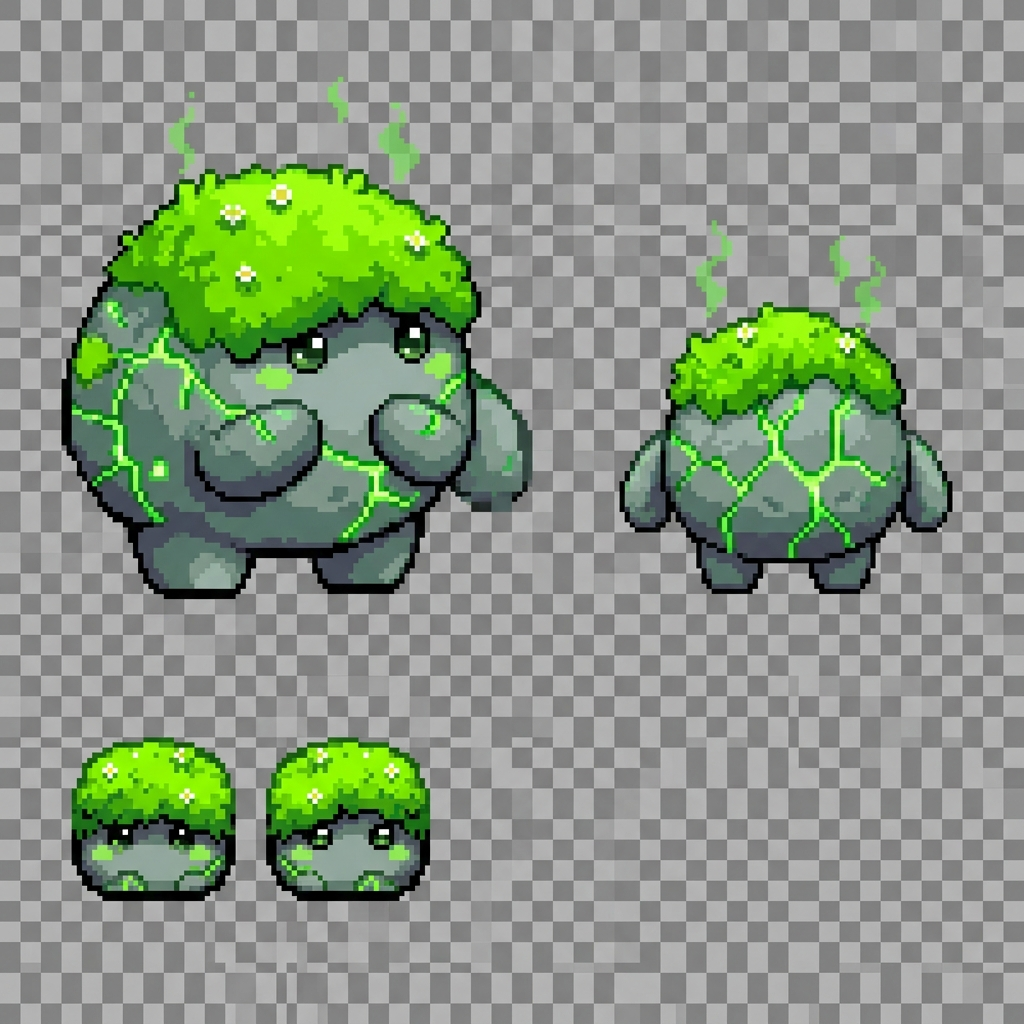
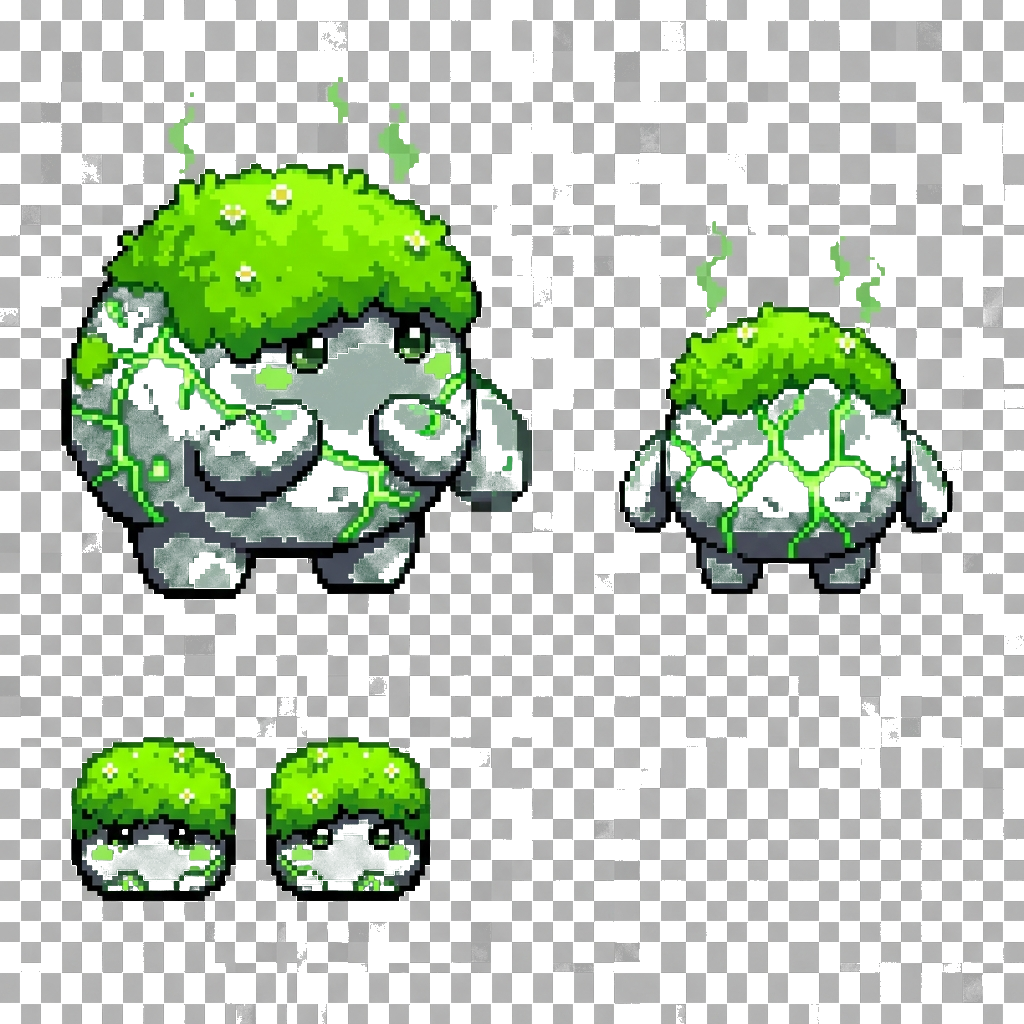
fix(assets): convert custom sprites to real PNG with alpha crops
JPEG-as-.png files were blocked by nosniff. Re-encode as RGBA PNG,
key backgrounds, extract *-ow overworld crops, and point catalog
overworld paths at the crops. NPCs keep 3x4 walk slicing.

diff --git a/src/shared/game/creatureCatalog.ts b/src/shared/game/creatureCatalog.ts
@@ -85,6 +85,18 @@ export const CREATURE_ASSET_OPTIONS: { key: string; label: string; kind: "overwo
   { key: "monster/battle/cardiling-sheet", label: "Cardiling battle sheet", kind: "battle" },
   // Custom Saints sheets
   { key: "creatures/lumkit-sheet", label: "Lumkit", kind: "battle" },
+  { key: "creatures/lumkit-ow", label: "Lumkit (overworld)", kind: "overworld" },
+  { key: "creatures/lumveil-ow", label: "Lumveil (overworld)", kind: "overworld" },
+  { key: "creatures/mosswhim-ow", label: "Mosswhim (overworld)", kind: "overworld" },
+  { key: "creatures/solarcrown-ow", label: "Solarcrown (overworld)", kind: "overworld" },
+  { key: "creatures/stonethrum-ow", label: "Stonethrum (overworld)", kind: "overworld" },
+  { key: "creatures/terravault-ow", label: "Terravault (overworld)", kind: "overworld" },
+  { key: "world-monsters/ashwhirl-ow", label: "Ashwhirl (overworld)", kind: "overworld" },
+  { key: "world-monsters/grimvast-ow", label: "Grimvast (overworld)", kind: "overworld" },
+  { key: "world-monsters/hollowmirth-ow", label: "Hollowmirth (overworld)", kind: "overworld" },
+  { key: "world-monsters/rootwail-ow", label: "Rootwail (overworld)", kind: "overworld" },
+  { key: "world-monsters/siltmourne-ow", label: "Siltmourne (overworld)", kind: "overworld" },
+  { key: "world-monsters/tanglewrath-ow", label: "Tanglewrath (overworld)", kind: "overworld" },
   { key: "creatures/lumveil-sheet", label: "Lumveil", kind: "battle" },
   { key: "creatures/mosswhim-sheet", label: "Mosswhim", kind: "battle" },
   { key: "creatures/solarcrown-sheet", label: "Solarcrown", kind: "battle" },
@@ -297,7 +309,7 @@ export const FALLBACK_CREATURE_DEFS: CreatureDefData[] = [
     dexNumber: 5,
     typePrimary: "Aero",
     typeSecondary: "None",
-    spriteOverworld: "creatures/lumkit-sheet",
+    spriteOverworld: "creatures/lumkit-ow",
     spriteBattle: "creatures/lumkit-sheet",
     spriteBack: null,
     baseHp: 96,
@@ -334,7 +346,7 @@ export const FALLBACK_CREATURE_DEFS: CreatureDefData[] = [
     dexNumber: 6,
     typePrimary: "Aero",
     typeSecondary: "Solar",
-    spriteOverworld: "creatures/lumveil-sheet",
+    spriteOverworld: "creatures/lumveil-ow",
     spriteBattle: "creatures/lumveil-sheet",
     spriteBack: null,
     baseHp: 102,
@@ -371,7 +383,7 @@ export const FALLBACK_CREATURE_DEFS: CreatureDefData[] = [
     dexNumber: 7,
     typePrimary: "Bio",
     typeSecondary: "None",
-    spriteOverworld: "creatures/mosswhim-sheet",
+    spriteOverworld: "creatures/mosswhim-ow",
     spriteBattle: "creatures/mosswhim-sheet",
     spriteBack: null,
     baseHp: 112,
@@ -408,7 +420,7 @@ export const FALLBACK_CREATURE_DEFS: CreatureDefData[] = [
     dexNumber: 8,
     typePrimary: "Solar",
     typeSecondary: "None",
-    spriteOverworld: "creatures/solarcrown-sheet",
+    spriteOverworld: "creatures/solarcrown-ow",
     spriteBattle: "creatures/solarcrown-sheet",
     spriteBack: null,
     baseHp: 104,
@@ -445,7 +457,7 @@ export const FALLBACK_CREATURE_DEFS: CreatureDefData[] = [
     dexNumber: 9,
     typePrimary: "Geo",
     typeSecondary: "None",
-    spriteOverworld: "creatures/stonethrum-sheet",
+    spriteOverworld: "creatures/stonethrum-ow",
     spriteBattle: "creatures/stonethrum-sheet",
     spriteBack: null,
     baseHp: 118,
@@ -482,7 +494,7 @@ export const FALLBACK_CREATURE_DEFS: CreatureDefData[] = [
     dexNumber: 10,
     typePrimary: "Geo",
     typeSecondary: "Bio",
-    spriteOverworld: "creatures/terravault-sheet",
+    spriteOverworld: "creatures/terravault-ow",
     spriteBattle: "creatures/terravault-sheet",
     spriteBack: null,
     baseHp: 120,
@@ -520,7 +532,7 @@ export const FALLBACK_CREATURE_DEFS: CreatureDefData[] = [
     dexNumber: 11,
     typePrimary: "Solar",
     typeSecondary: "Aero",
-    spriteOverworld: "world-monsters/ashwhirl-sheet",
+    spriteOverworld: "world-monsters/ashwhirl-ow",
     spriteBattle: "world-monsters/ashwhirl-sheet",
     spriteBack: null,
     baseHp: 90,
@@ -557,7 +569,7 @@ export const FALLBACK_CREATURE_DEFS: CreatureDefData[] = [
     dexNumber: 12,
     typePrimary: "Geo",
     typeSecondary: "None",
-    spriteOverworld: "world-monsters/grimvast-sheet",
+    spriteOverworld: "world-monsters/grimvast-ow",
     spriteBattle: "world-monsters/grimvast-sheet",
     spriteBack: null,
     baseHp: 115,
@@ -594,7 +606,7 @@ export const FALLBACK_CREATURE_DEFS: CreatureDefData[] = [
     dexNumber: 13,
     typePrimary: "Cryo",
     typeSecondary: "Aero",
-    spriteOverworld: "world-monsters/hollowmirth-sheet",
+    spriteOverworld: "world-monsters/hollowmirth-ow",
     spriteBattle: "world-monsters/hollowmirth-sheet",
     spriteBack: null,
     baseHp: 88,
@@ -631,7 +643,7 @@ export const FALLBACK_CREATURE_DEFS: CreatureDefData[] = [
     dexNumber: 14,
     typePrimary: "Bio",
     typeSecondary: "None",
-    spriteOverworld: "world-monsters/rootwail-sheet",
+    spriteOverworld: "world-monsters/rootwail-ow",
     spriteBattle: "world-monsters/rootwail-sheet",
     spriteBack: null,
     baseHp: 108,
@@ -668,7 +680,7 @@ export const FALLBACK_CREATURE_DEFS: CreatureDefData[] = [
     dexNumber: 15,
     typePrimary: "Hydro",
     typeSecondary: "Geo",
-    spriteOverworld: "world-monsters/siltmourne-sheet",
+    spriteOverworld: "world-monsters/siltmourne-ow",
     spriteBattle: "world-monsters/siltmourne-sheet",
     spriteBack: null,
     baseHp: 100,
@@ -705,7 +717,7 @@ export const FALLBACK_CREATURE_DEFS: CreatureDefData[] = [
     dexNumber: 16,
     typePrimary: "Bio",
     typeSecondary: "Volt",
-    spriteOverworld: "world-monsters/tanglewrath-sheet",
+    spriteOverworld: "world-monsters/tanglewrath-ow",
     spriteBattle: "world-monsters/tanglewrath-sheet",
     spriteBack: null,
     baseHp: 95,

diff --git a/public/asset-preview.html b/public/asset-preview.html
@@ -1,0 +1,73 @@
+<!DOCTYPE html>
+<html lang="en">
+<head>
+  <meta charset="utf-8" />
+  <title>Saints custom asset preview</title>
+  <style>
+    body { font-family: ui-sans-serif, system-ui, sans-serif; background: #1a1a1e; color: #eee; margin: 24px; }
+    h1 { font-size: 1.25rem; }
+    h2 { font-size: 1rem; margin-top: 1.5rem; color: #a3e635; }
+    .grid { display: grid; grid-template-columns: repeat(auto-fill, minmax(160px, 1fr)); gap: 12px; }
+    figure {
+      margin: 0; padding: 10px; background: #111;
+      border: 1px solid #333; border-radius: 8px; text-align: center;
+    }
+    .checker {
+      width: 128px; height: 128px; margin: 0 auto 8px;
+      background-image:
+        linear-gradient(45deg, #333 25%, transparent 25%),
+        linear-gradient(-45deg, #333 25%, transparent 25%),
+        linear-gradient(45deg, transparent 75%, #333 75%),
+        linear-gradient(-45deg, transparent 75%, #333 75%);
+      background-size: 16px 16px;
+      background-position: 0 0, 0 8px, 8px -8px, -8px 0;
+      display: grid; place-items: center;
+    }
+    img { max-width: 120px; max-height: 120px; image-rendering: pixelated; }
+    figcaption { font-size: 11px; word-break: break-all; color: #bbb; }
+    .err { color: #f87171; }
+  </style>
+</head>
+<body>
+  <h1>Custom Saints assets</h1>
+  <p>If these show on the checkerboard (not broken-image icons), PNG + alpha + nosniff are healthy.</p>
+  <div id="root"></div>
+  <script>
+    const groups = {
+      'Creatures (overworld crops)': [
+        'creatures/lumkit-ow.png','creatures/lumveil-ow.png','creatures/mosswhim-ow.png',
+        'creatures/solarcrown-ow.png','creatures/stonethrum-ow.png','creatures/terravault-ow.png',
+      ],
+      'Creatures (battle sheets)': [
+        'creatures/lumkit-sheet.png','creatures/lumveil-sheet.png','creatures/mosswhim-sheet.png',
+        'creatures/solarcrown-sheet.png','creatures/stonethrum-sheet.png','creatures/terravault-sheet.png',
+      ],
+      'World monsters (overworld)': [
+        'world-monsters/ashwhirl-ow.png','world-monsters/grimvast-ow.png','world-monsters/hollowmirth-ow.png',
+        'world-monsters/rootwail-ow.png','world-monsters/siltmourne-ow.png','world-monsters/tanglewrath-ow.png',
+      ],
+      'NPCs (3×4 walk sheets)': [
+        'npc/candrift_keeper.png','npc/capturer_kian.png','npc/elder_voss.png',
+        'npc/ironwright_kael.png','npc/scout_mira.png','npc/soulwarden_aldric.png',
+      ],
+    };
+    const root = document.getElementById('root');
+    for (const [title, files] of Object.entries(groups)) {
+      const h = document.createElement('h2'); h.textContent = title; root.appendChild(h);
+      const grid = document.createElement('div'); grid.className = 'grid';
+      for (const f of files) {
+        const fig = document.createElement('figure');
+        const box = document.createElement('div'); box.className = 'checker';
+        const img = document.createElement('img');
+        img.src = '/game-assets/' + f;
+        img.alt = f;
+        img.onerror = () => { box.innerHTML = '<span class="err">FAILED</span>'; };
+        box.appendChild(img);
+        const cap = document.createElement('figcaption'); cap.textContent = f;
+        fig.appendChild(box); fig.appendChild(cap); grid.appendChild(fig);
+      }
+      root.appendChild(grid);
+    }
+  </script>
+</body>
+</html>

diff --git a/src/engine/BabylonEngine.ts b/src/engine/BabylonEngine.ts
@@ -87,13 +87,17 @@ export const SINGLE_FRAME_SPRITE_CONFIG: SpriteSheetConfig = {
   }
 };
 
-/** True when a sprite URL should render as one full frame (custom Saints sheets). */
+/**
+ * True when a sprite URL should render as one full frame (no 3×4 walk UV slicing).
+ * Custom NPC walk sheets under /npc/ stay on DEFAULT_SPRITE_CONFIG (3×4).
+ * Creature/monster battle sheets and *-ow crops are single-frame.
+ */
 export function isSingleFrameSpriteUrl(url: string | null | undefined): boolean {
   if (!url) return false;
   return (
     url.includes("/creatures/") ||
     url.includes("/world-monsters/") ||
-    /\/npc\/(candrift_keeper|capturer_kian|elder_voss|ironwright_kael|scout_mira|soulwarden_aldric)\.png/.test(url)
+    /-ow\.png(?:$|\?)/.test(url)
   );
 }
 
